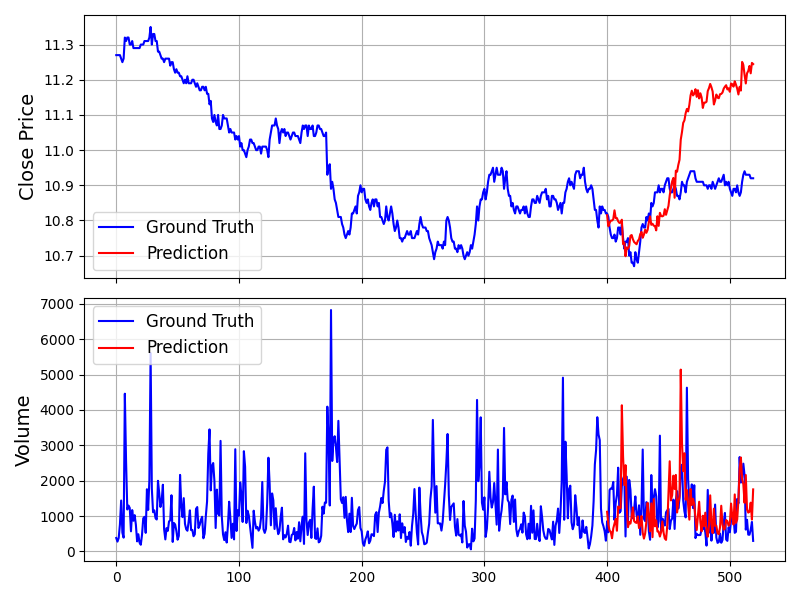
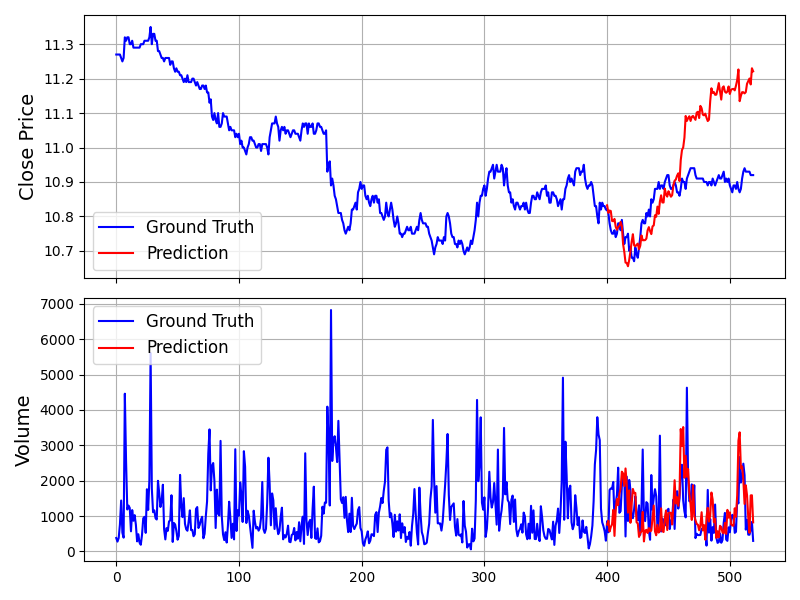
docs(示例): 更新预测示例脚本并添加结果图片
更新预测示例脚本，添加中文打印信息并更换为更大的基础模型。同时添加预测结果图片到示例目录。

diff --git a/examples/prediction_example.py b/examples/prediction_example.py
@@ -36,19 +36,24 @@ def plot_prediction(kline_df, pred_df):
 
     plt.tight_layout()
     plt.savefig('prediction_result.png')
-    print("Prediction plot saved to prediction_result.png")
+    print("预测结果图已保存至 prediction_result.png")
 
 
 # 1. Load Model and Tokenizer
+print("1. 正在加载模型和分词器... (Tokenizer: NeoQuasar/Kronos-Tokenizer-base, Model: NeoQuasar/Kronos-base)")
 tokenizer = KronosTokenizer.from_pretrained("NeoQuasar/Kronos-Tokenizer-base")
-model = Kronos.from_pretrained("NeoQuasar/Kronos-small")
+model = Kronos.from_pretrained("NeoQuasar/Kronos-base")
 
 # 2. Instantiate Predictor
+print("2. 正在初始化预测器... (Device: cuda:0, Max Context: 512)")
 predictor = KronosPredictor(model, tokenizer, device="cuda:0", max_context=512)
 
 # 3. Prepare Data
+print("3. 正在准备数据... (Loading: ./data/XSHG_5min_600977.csv)")
 df = pd.read_csv("./data/XSHG_5min_600977.csv")
 df['timestamps'] = pd.to_datetime(df['timestamps'])
+print(f"   数据已加载，共 {len(df)} 行。")
+print("   使用的特征列: ['open', 'high', 'low', 'close', 'volume', 'amount']")
 
 lookback = 400
 pred_len = 120
@@ -58,6 +63,8 @@ x_timestamp = df.loc[:lookback-1, 'timestamps']
 y_timestamp = df.loc[lookback:lookback+pred_len-1, 'timestamps']
 
 # 4. Make Prediction
+print(f"4. 正在进行预测... (Lookback: {lookback}, Prediction Length: {pred_len})")
+print(f"   参数设置: T=1.0, top_p=0.9, sample_count=1")
 pred_df = predictor.predict(
     df=x_df,
     x_timestamp=x_timestamp,
@@ -70,7 +77,8 @@ pred_df = predictor.predict(
 )
 
 # 5. Visualize Results
-print("Forecasted Data Head:")
+print("5. 正在可视化结果...")
+print("预测数据前几行:")
 print(pred_df.head())
 
 # Combine historical and forecasted data for plotting
